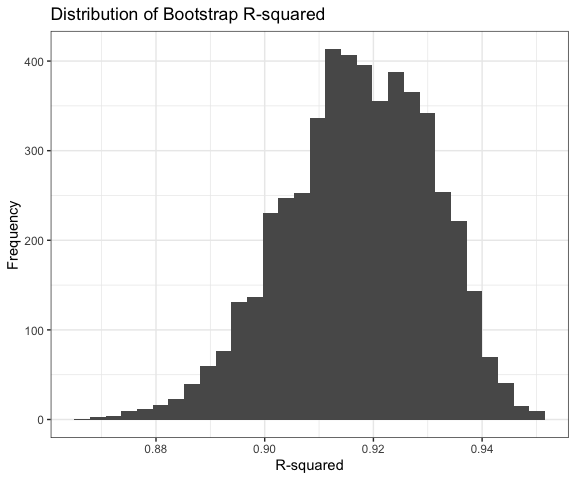
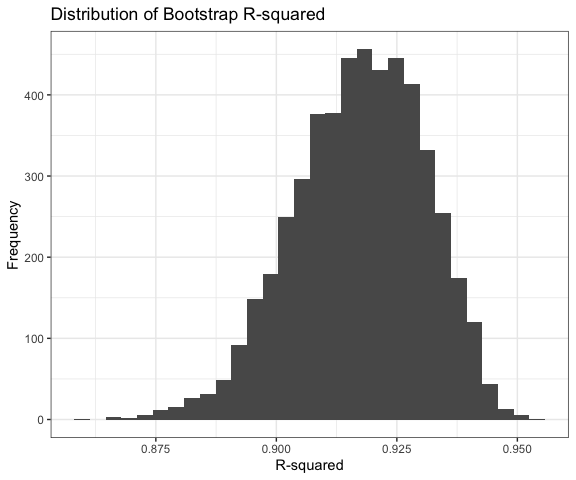
import birthweight data and convert strings to factors

diff --git a/p8105_hw6_drl2168.md b/p8105_hw6_drl2168.md
@@ -1,7 +1,7 @@
 Homework 6
 ================
 Derek Lamb
-2023-11-21
+2023-11-24
 
 ### Load packages
 
@@ -219,9 +219,9 @@ df_weather |>
     ## # A tibble: 3 × 5
     ##   term        estimate std.error statistic   p.value
     ##   <chr>          <dbl>     <dbl>     <dbl>     <dbl>
-    ## 1 (Intercept)  7.62      0.203       37.5  7.98e-127
-    ## 2 tmin         1.06      0.0145      73.1  6.24e-219
-    ## 3 prcp        -0.00759   0.00189     -4.02 7.08e-  5
+    ## 1 (Intercept)  7.78      0.235       33.1  1.54e-111
+    ## 2 tmin         1.02      0.0166      61.4  1.95e-193
+    ## 3 prcp         0.00444   0.00217      2.05 4.11e-  2
 
 I created the dataframe I needed with 5000 samples of the weather
 dataframe.
@@ -285,7 +285,7 @@ df_bootstrap |>
   geom_histogram() + 
   labs(
     title = "Distribution of Bootstrap Log Beta Product",
-    x = "Log(beta1 * beta2",
+    x = "Log(beta1 * beta2)",
     y = "Frequency"
   ) 
 ```
@@ -317,5 +317,54 @@ df_bootstrap |>
 
 | Parameter | CI Lower Bound | CI Upper Bound |
 |:----------|---------------:|---------------:|
-| log_beta  |         -8.612 |          -4.60 |
-| r.squared |          0.889 |           0.94 |
+| log_beta  |         -8.640 |         -4.608 |
+| r.squared |          0.889 |          0.941 |
+
+# Problem 3
+
+``` r
+df_bwt = 
+  read_csv("data/birthweight.csv") |> 
+  mutate(
+    babysex = case_match(
+      babysex,
+      1 ~ "male",
+      2 ~ "female"),
+    malform = case_match(
+      malform,
+      0 ~ "absent",
+      1 ~ "present"
+    ),
+    mrace = case_match(
+      mrace,
+      1 ~ "White",
+      2 ~ "Black",
+      3 ~ "Asian",
+      4 ~ "Puerto Rican",
+      8 ~ "Other"
+    ),
+    frace = case_match(
+      frace,
+      1 ~ "White",
+      2 ~ "Black",
+      3 ~ "Asian",
+      4 ~ "Puerto Rican",
+      8 ~ "Other",
+      9 ~ "Unknown"
+    ),
+    babysex = as.factor(babysex),
+    malform = as.factor(malform),
+    mrace = as.factor(mrace),
+    frace = as.factor(frace))
+```
+
+    ## Rows: 4342 Columns: 20
+    ## ── Column specification ────────────────────────────────────────────────────────
+    ## Delimiter: ","
+    ## dbl (20): babysex, bhead, blength, bwt, delwt, fincome, frace, gaweeks, malf...
+    ## 
+    ## ℹ Use `spec()` to retrieve the full column specification for this data.
+    ## ℹ Specify the column types or set `show_col_types = FALSE` to quiet this message.
+
+Here is the code for doing stepwise selection:
+<http://www.sthda.com/english/articles/37-model-selection-essentials-in-r/154-stepwise-regression-essentials-in-r/>
